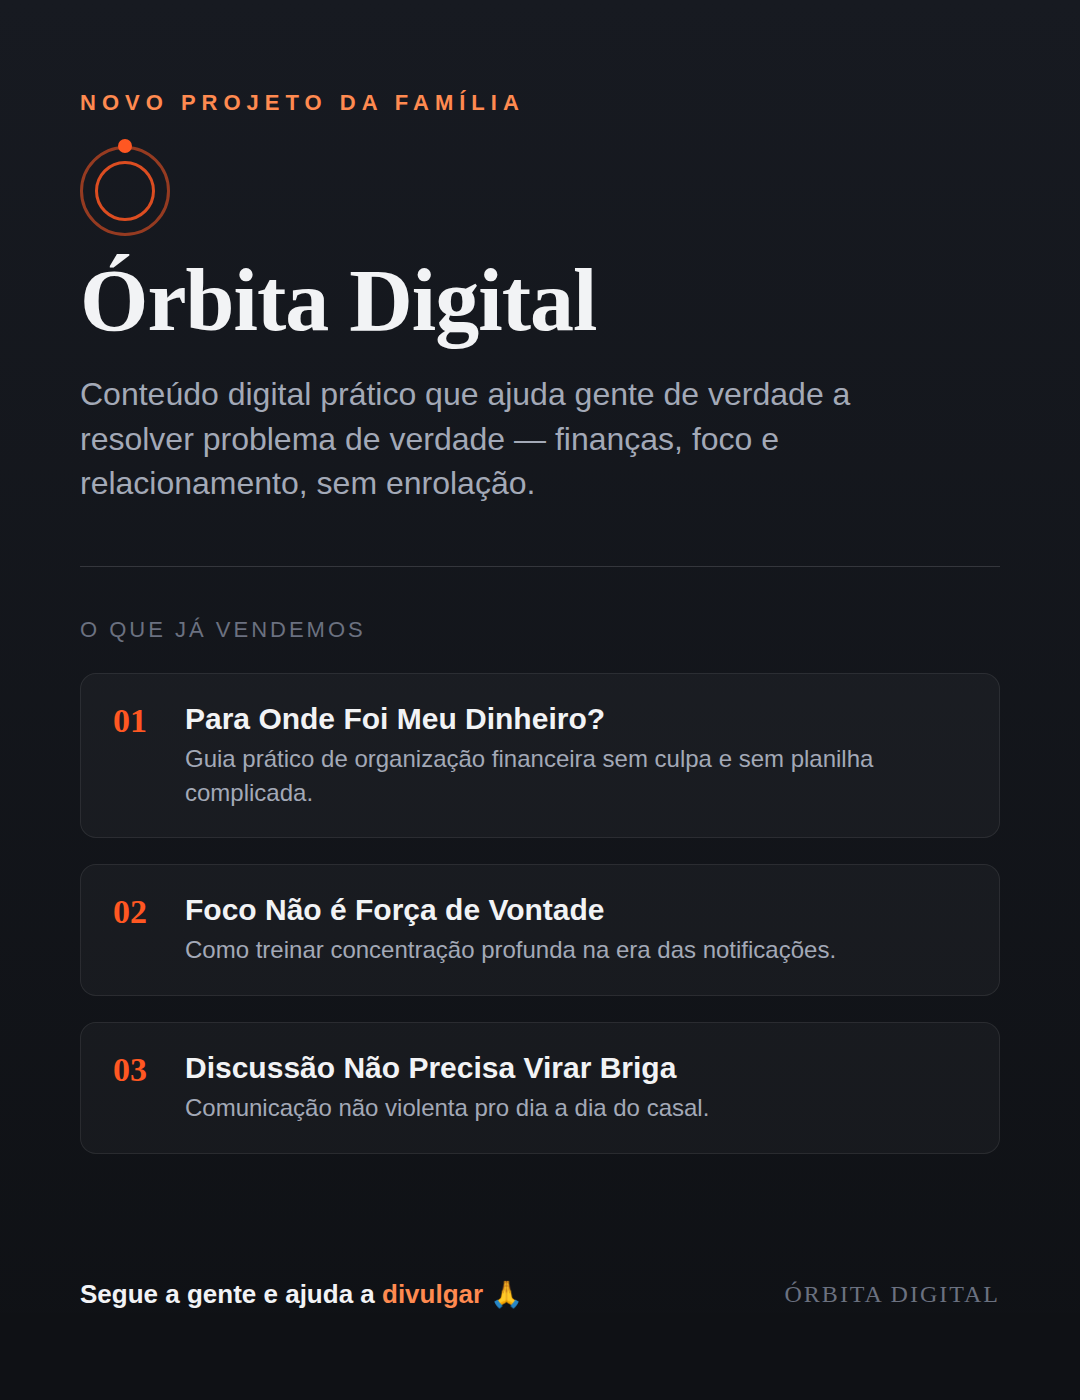
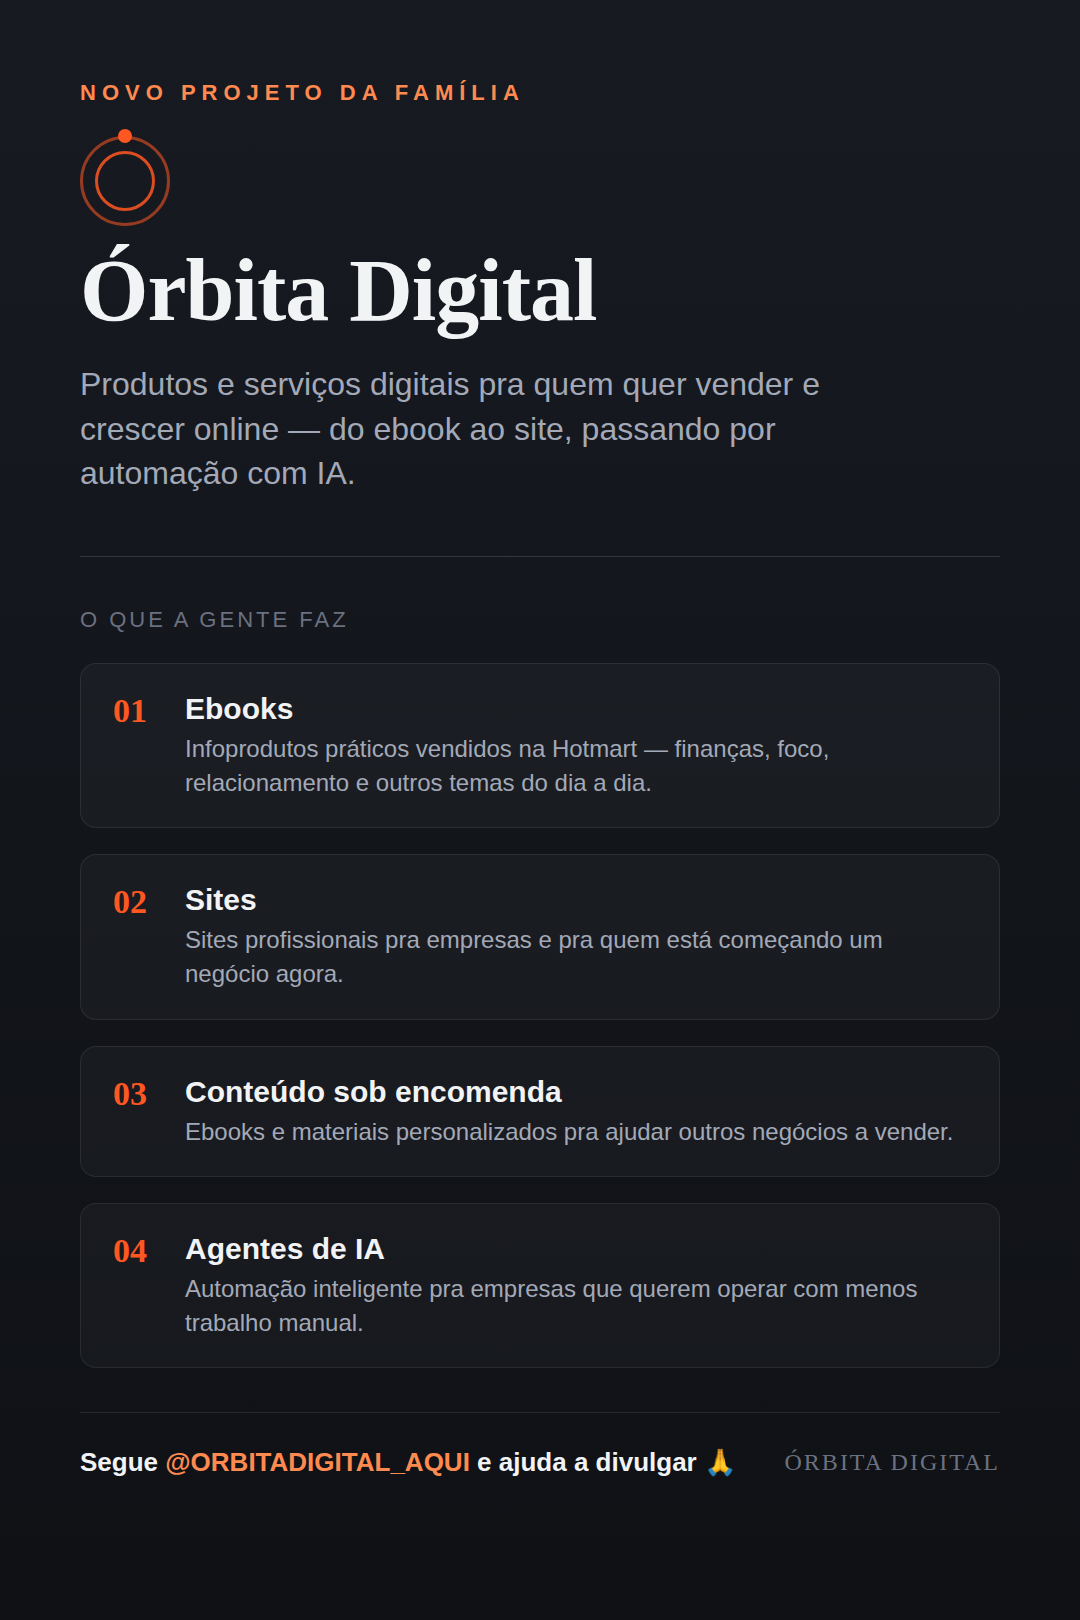
Update Órbita Digital card with full service lineup
Reflects the actual positioning: ebooks (Hotmart), sites, custom
content, and AI agents — not just the ebook line. Instagram handle
left as an explicit placeholder for the user to fill in.

Claude-Session: https://claude.ai/code/session_01LZSV196B7tMjyqpVA2CFDr

diff --git a/marketing/orbita-digital-familia.html b/marketing/orbita-digital-familia.html
@@ -4,7 +4,7 @@
 <meta charset="UTF-8">
 <style>
   * { box-sizing: border-box; margin: 0; padding: 0; }
-  html, body { width: 1080px; height: 1400px; }
+  html, body { width: 1080px; height: 1620px; }
   html { background: #0f1115; }
   body {
     background: linear-gradient(180deg, #171a21 0%, #0f1115 100%);
@@ -12,7 +12,7 @@
     font-family: 'Helvetica Neue', Arial, sans-serif;
     display: flex;
     flex-direction: column;
-    padding: 90px 80px;
+    padding: 80px 80px 70px;
   }
   .eyebrow {
     font-size: 22px;
@@ -76,8 +76,9 @@
   .product .desc { font-size: 24px; color: #a3a9b7; line-height: 1.4; }
 
   .footer {
-    margin-top: auto;
-    padding-top: 50px;
+    margin-top: 44px;
+    padding-top: 34px;
+    border-top: 1px solid rgba(242,243,245,0.1);
     display: flex;
     align-items: center;
     justify-content: space-between;
@@ -106,37 +107,44 @@
   </div>
 
   <h1>Órbita Digital</h1>
-  <p class="tagline">Conteúdo digital prático que ajuda gente de verdade a resolver problema de verdade — finanças, foco e relacionamento, sem enrolação.</p>
+  <p class="tagline">Produtos e serviços digitais pra quem quer vender e crescer online — do ebook ao site, passando por automação com IA.</p>
 
   <div class="divider"></div>
 
-  <div class="section-label">O que já vendemos</div>
+  <div class="section-label">O que a gente faz</div>
   <div class="products">
     <div class="product">
       <div class="num">01</div>
       <div>
-        <div class="title">Para Onde Foi Meu Dinheiro?</div>
-        <div class="desc">Guia prático de organização financeira sem culpa e sem planilha complicada.</div>
+        <div class="title">Ebooks</div>
+        <div class="desc">Infoprodutos práticos vendidos na Hotmart — finanças, foco, relacionamento e outros temas do dia a dia.</div>
       </div>
     </div>
     <div class="product">
       <div class="num">02</div>
       <div>
-        <div class="title">Foco Não é Força de Vontade</div>
-        <div class="desc">Como treinar concentração profunda na era das notificações.</div>
+        <div class="title">Sites</div>
+        <div class="desc">Sites profissionais pra empresas e pra quem está começando um negócio agora.</div>
       </div>
     </div>
     <div class="product">
       <div class="num">03</div>
       <div>
-        <div class="title">Discussão Não Precisa Virar Briga</div>
-        <div class="desc">Comunicação não violenta pro dia a dia do casal.</div>
+        <div class="title">Conteúdo sob encomenda</div>
+        <div class="desc">Ebooks e materiais personalizados pra ajudar outros negócios a vender.</div>
+      </div>
+    </div>
+    <div class="product">
+      <div class="num">04</div>
+      <div>
+        <div class="title">Agentes de IA</div>
+        <div class="desc">Automação inteligente pra empresas que querem operar com menos trabalho manual.</div>
       </div>
     </div>
   </div>
 
   <div class="footer">
-    <div class="cta">Segue a gente e ajuda a <span>divulgar</span> 🙏</div>
+    <div class="cta">Segue <span>@ORBITADIGITAL_AQUI</span> e ajuda a divulgar 🙏</div>
     <div class="brand-mark">ÓRBITA DIGITAL</div>
   </div>
 </body>
